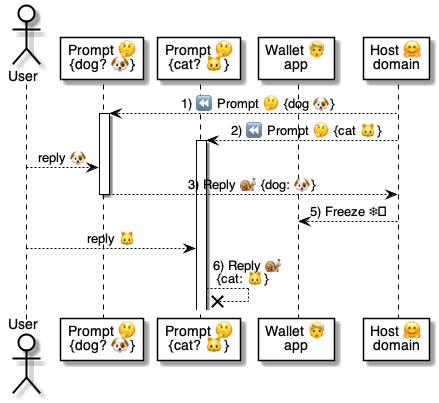
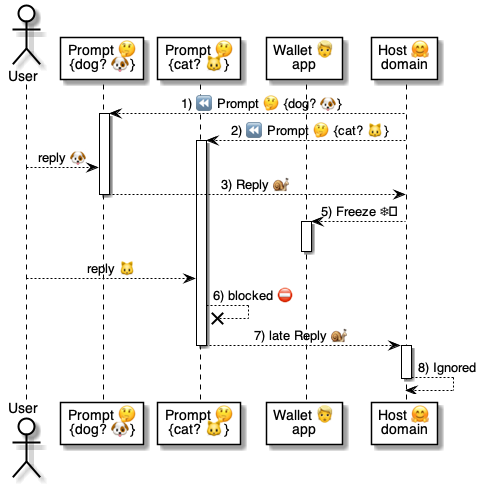
.

diff --git a/4 ⚙ Solution/20 🧑🦰 UI/31 🤔 Prompts/04 🤔✨ with Options.md b/4 ⚙ Solution/20 🧑🦰 UI/31 🤔 Prompts/04 🤔✨ with Options.md
@@ -17,15 +17,29 @@
 
 1. **Can prompt options be deferred?**
        
-    Yes, [prompt options](<04 🤔✨ with Options.md>) can be differed with [non-blocking status Prompts 🤔](<08 🤔✨ with Status behavior.md>).
+    Yes. 
     
-    * [Host 🤗 domains](<../12 💬 Chats/04 🤗🎭 Host role.md>) can speed-up [Chats 💬](<../12 💬 Chats/01 💬 Chat.md>) by taking unilateral two-way-door decisions that can be reverted by users even after other [Prompts 🤔](<01 🤔 Prompt.md>) have been sent.
-
-    * For example, [Host 🤗 domains](<../12 💬 Chats/04 🤗🎭 Host role.md>) may assign default values to options to speed up the process (e.g., [navigation options 🤝](<../../../3 🤝 Use Cases/03 🧳 Travel/01 🧳 Plans trips 🧭/02 🧭 Return @ Destination.md>)), while still allowing users to go back and change those default options.
-
-    * [Hosts 🤗](<../12 💬 Chats/04 🤗🎭 Host role.md>) enable it with [non-blocking Prompts 🤔](<08 🤔✨ with Status behavior.md>) - e.g., [`INFO`](<11 ℹ INFO prompt.md>), [`TEMP`](<12 ⏳ TEMP prompt.md>), [`SUCCESS`](<13 ✅ SUCCESS prompt.md>), and [`FAILURE`](<14 ❌ FAILURE prompt.md>).
+    * [Prompt options](<04 🤔✨ with Options.md>) can be differed with [non-blocking status Prompts 🤔](<08 🤔✨ with Status behavior.md>);
     
-    * [Hosts 🤗](<../12 💬 Chats/04 🤗🎭 Host role.md>) disabled it with a [Freeze ❄](<../../../5 ⏩ Flows/50 🤗⏩ Hosts/06 🤗⏩🧑🦰 Freeze ❄.md>) flow.
+        * e.g., [`INFO`](<11 ℹ INFO prompt.md>), [`TEMP`](<12 ⏳ TEMP prompt.md>), [`SUCCESS`](<13 ✅ SUCCESS prompt.md>), and [`FAILURE`](<14 ❌ FAILURE prompt.md>).
+  
+        * [Host 🤗 domains](<../12 💬 Chats/04 🤗🎭 Host role.md>) speed-up [Chats 💬](<../12 💬 Chats/01 💬 Chat.md>) by taking unilateral two-way-door decisions that can be reverted by users even after other [Prompts 🤔](<01 🤔 Prompt.md>) have been sent.
+
+        * For example, [Host 🤗 domains](<../12 💬 Chats/04 🤗🎭 Host role.md>) may assign default values to options to speed up the process (e.g., [navigation options 🤝](<../../../3 🤝 Use Cases/03 🧳 Travel/01 🧳 Plans trips 🧭/02 🧭 Return @ Destination.md>)), while still allowing users to go back and change those default options.
+
+    
+    --- 
+    <br/>
+
+1. **Do all prompt options behave the same way?**
+
+    No. 
+    * [`Options`](<04 🤔✨ with Options.md>) with a `§` sign 
+        * open a new [Chat 💬](<../12 💬 Chats/01 💬 Chat.md>)
+        * even after a [Freeze ❄](<../../../5 ⏩ Flows/50 🤗⏩ Hosts/06 🤗⏩🧑🦰 Freeze ❄.md>) command.
+    * All others [`Options`](<04 🤔✨ with Options.md>)
+        * continue the [Chat 💬](<../12 💬 Chats/01 💬 Chat.md>)
+        * and are disabled with a [Freeze ❄](<../../../5 ⏩ Flows/50 🤗⏩ Hosts/06 🤗⏩🧑🦰 Freeze ❄.md>) command.
     
     ---
     <br/>
@@ -50,19 +64,48 @@
     ```yaml
     # One-line
     <PROMPT>|<message>|<options> >> $selected
+    ```
 
+    | Argument| Purpose | Example
+    |-|-|-
+    | `<PROMPT>` | A [Prompt 🤔](<01 🤔 Prompt.md>) format. | [`INFO`](<11 ℹ INFO prompt.md>) [`TEMP`](<12 ⏳ TEMP prompt.md>)
+    | `<message>` |  Message to show to the user. | `Hi!`
+    | `<options>` | Comma-separated strings | `A,B,C`
+    || or comma-separated dictionary. | `1:A,2:B`
+    | `$selected` | Placeholder for the selected option: | `$answer`
+    || for string lists, returns the text | → `A` in `A,B,C`
+    || for dictionaries, returns the ID. | → `1` in `{1:A}`
+    
+    ```yaml
     # Multi-line with a single options string
     <PROMPT> >> $selected:
         Message: <message>
         Options: <options>
+    ```
 
+    | Argument| Purpose | Example
+    |-|-|-
+    | `<message>` | Also allows interpolated strings. | `Hi {$name}!`
+    | `<options>` | Also allows string array functions |`{f}` → `[A,B]`
+    |           | and object functions. | `{f}` → `{1:A}`
+    
+    ```yaml
     # Multi-line with multiple strings
     <PROMPT> >> $selected:
         Message: <message>
         Options:
-            - <string-1>
+            - <option-1>
             - <option-n>
+    ```
 
+    | Argument| Purpose | Example
+    |-|-|-
+    | `<option-n>` | Also allows option interpolation |`- Item {$id}`
+    || and uses `[]` to highlight words | `[Close] chat`
+    || and uses `§` for [Locators 🔆](<../11 🔆 Locators/01 🔆 Locator.md>). | `Open § {$url}`
+
+
+    ```yaml
     # Multi-line with a dictionary
     <PROMPT> >> $selected:
         Message: <message>
@@ -73,12 +116,7 @@
 
     | Argument| Purpose | Example
     |-|-|-
-    | `<PROMPT>` | A [Prompt 🤔](<01 🤔 Prompt.md>) format. | `INFO` `TEMP`
-    | `<message>` |  Message to show to the user. | `Hi!`
-    | `<options>` | Optional comma-separated options. | `A,B,C`
-    | `<option-n>` | Option text in lists and dictionaries. | `Bla`
-    | `<id-n>` | Optional ID in an option dictionary. | `#1`
-    | `$selected` | Placeholder for the selected option: <br> - for text lists, returns the text; <br/>- for dictionaries, returns the ID. | `$answer`
+    | `<id-n>` | Also allows interpolated objects. | `- A: Item {$id}`
     
     
     ---
@@ -90,22 +128,69 @@
 
     | [Domain](<../../40 👥 Domains/44 📜 Manifests/00 👥 Domain.md>) | [Prompt](<01 🤔 Prompt.md>) | [User](<../01 🧑🦰 Wallets/01 🧑🦰 Wallet app.md>)
     | - | - | - |
-    | [🤗 Host](<../12 💬 Chats/04 🤗🎭 Host role.md>) | ℹ With options:<br/>- [ Cancel ] later <br>- [ Play ] music | > Cancel
+    | [🤗 Host](<../12 💬 Chats/04 🤗🎭 Host role.md>) | 😃 What to do? <br>- [ Play ] music <br/>- [ Share ] list | > Play
+    | [🤗 Host](<../12 💬 Chats/04 🤗🎭 Host role.md>) | ℹ You opted to play.
+    |  
 
     The related [Talker 😃](<../33 😃 Talkers/01 😃 Talker.md>) is as follows.
 
     ```yaml
     # 😃 Talker
-    INFO|With options >> $answer:
-        Options:
-            - [Cancel] later
-            - [Play] music 
-    ```
 
+    # Ask the question.
+    ONE|What to do? >> $answer:
+        Options:
+            - [Play] music 
+            - [Share] list
+
+    # Check the answer.
+    CASE|$answer:
+        Play : INFO|You opted to play.
+        Share: INFO|You choose to share.
+    ```
 
     ---
     <br/>
 
+
+
+1. **What's a Locator example in a [Chat 💬](<../12 💬 Chats/01 💬 Chat.md>)?**
+
+    | [Domain](<../../40 👥 Domains/44 📜 Manifests/00 👥 Domain.md>) | [Prompt](<01 🤔 Prompt.md>) | [User](<../01 🧑🦰 Wallets/01 🧑🦰 Wallet app.md>)
+    | - | - | - |
+    | [🤗 Host](<../12 💬 Chats/04 🤗🎭 Host role.md>) | 😃 What to do?<br>- [ Play ] music <br/>- [ Share ] list <br/> - [ Speak ] with singer 🔆 | > Speak
+    | [🤗 Host](<../12 💬 Chats/04 🤗🎭 Host role.md>) | ✅ Over to 👨🎤 Any Singer.
+    | [ new chat ]
+    | 🔎 [Finder](<../../../../4 ⚙ Solution/30 🫥 Agents/10 🔎 Finders/02 🔎🫥 Finder vault.md>) | ⓘ Any Singer (4.4 ⭐) [+]
+    | 👨🎤 Singer   | ℹ Received fan request.
+    | 👨🎤 Singer  | 😃 Hi! What do you need?
+    |
+
+    The related [Talker 😃](<../33 😃 Talkers/01 😃 Talker.md>) is as follows.
+
+    ```yaml
+    # 😃 Talker
+
+    # Ask the question.
+    ONE|What to do? >> $answer:
+        Options:
+            - [Play] music 
+            - [Share] list
+            - [Speak] with singer § any-artist.com/FANS
+
+    # Check the answer.
+    CASE|$answer:
+        Play : INFO|You opted to play.
+        Share: INFO|You choose to share.
+        # [Speak] never gets here.
+    ```
+
+    The option with `§` 
+    * opens a new [Chat 💬](<../12 💬 Chats/01 💬 Chat.md>)
+    * using the [Locator 🔆](<../11 🔆 Locators/01 🔆 Locator.md>) `any-artist.com/FANS`
+
+    ---
+    <br/>
 
 1. **What's the response in the [`Prompted@Host`](<../../../6 🅰 APIs/50 🤗🅰 Host/04 🧑🦰🚀🤗 Prompted.md>) method?**
 

diff --git a/4 ⚙ Solution/20 🧑🦰 UI/31 🤔 Prompts/01 🤔 Prompt.md b/4 ⚙ Solution/20 🧑🦰 UI/31 🤔 Prompts/01 🤔 Prompt.md
@@ -64,9 +64,11 @@
         * then go back to B and change the history to A, B, X, Y, Z;
         * as long as there was no [Freeze ❄](<../../../5 ⏩ Flows/50 🤗⏩ Hosts/06 🤗⏩🧑🦰 Freeze ❄.md>) between B and E.
     
-    * However, [Host 🤗 domains](<../12 💬 Chats/04 🤗🎭 Host role.md>) can [Freeze ❄](<../../../5 ⏩ Flows/50 🤗⏩ Hosts/06 🤗⏩🧑🦰 Freeze ❄.md>) a [Chat 💬](<../12 💬 Chats/01 💬 Chat.md>) until a certain checkpoint;
-        * This blocks the user from changing any [Prompts 🤔](<01 🤔 Prompt.md>) before that point.
-        * The objective is typically to commit a transaction to a database with the inputs collected up to that point.
+    * However, [Host 🤗 domains](<../12 💬 Chats/04 🤗🎭 Host role.md>) can [Freeze ❄](<../../../5 ⏩ Flows/50 🤗⏩ Hosts/06 🤗⏩🧑🦰 Freeze ❄.md>) a [Chat 💬](<../12 💬 Chats/01 💬 Chat.md>) until a certain checkpoint.
+        * This blocks the user from changing any [Prompts 🤔](<01 🤔 Prompt.md>) up to that point.
+        * [Hosts 🤗](<../12 💬 Chats/04 🤗🎭 Host role.md>) to this when committing a transaction to a database with the inputs collected.
+  
+    * ⚠ Note: [`Options`](<04 🤔✨ with Options.md>) with a `§` open a new [Chat 💬](<../12 💬 Chats/01 💬 Chat.md>)  and are never frozen.
 
     ---
     <br/>
@@ -78,7 +80,7 @@
     |-|-
     | [`Details`](<03 🤔✨ with Details.md>) | Has expandable [+] details.
     | [`Options`](<04 🤔✨ with Options.md>) | Has options for users to select.
-    | [`Attachment`](<05 🤔✨ with Attachments.md>) | Has a PDF, PNG, or JPEG attachment.
+    | [`Attachment 📎`](<05 🤔📎 with Attachments.md>) | Has a PDF, PNG, or JPEG attachment.
     | [`Status` behavior](<08 🤔✨ with Status behavior.md>) | Informs and continues the flow.
     | [`Input` behavior](<09 🤔✨ with Input behavior.md>) | Waits for an answer from users.
     

diff --git a/4 ⚙ Solution/20 🧑🦰 UI/31 🤔 Prompts/08 🤔✨ with Status behavior.md b/4 ⚙ Solution/20 🧑🦰 UI/31 🤔 Prompts/08 🤔✨ with Status behavior.md
@@ -48,6 +48,14 @@
     Non-blocking status prompts support [`Options`](<04 🤔✨ with Options.md>).
     - If it contains [`Options`](<04 🤔✨ with Options.md>), then the user may click an option any time before or after the [Host 🤗 domain](<../12 💬 Chats/04 🤗🎭 Host role.md>) sends other subsequent [Prompts 🤔](<01 🤔 Prompt.md>).
     - See a full example at [Driver pick-up on pizza delivery 🛵](<../../../3 🤝 Use Cases/02 🍲 Eat & Drink/70 🍕 Order pizza/82 🛵 Driver: Pick-up.md>).
+    
+    These options are not disabled with a [Freeze ❄](<../../../5 ⏩ Flows/50 🤗⏩ Hosts/06 🤗⏩🧑🦰 Freeze ❄.md>) flow, and will continue to work.
+    - This allows users to continue to retrieve outputs from previous transactions, like the details of a payment.
+    - Thus, [Host 🤗 domain](<../12 💬 Chats/04 🤗🎭 Host role.md>) should validate their replies with optimistic concurrency when necessary.
+
+    Also, these non-blocking [`Options`](<04 🤔✨ with Options.md>) don't return from their [Procedure ⚙](<../33 😃 Talkers/11 ⚙ Procedure.md>) in a [Talker 😃](<../33 😃 Talkers/01 😃 Talker.md>).
+    * This is because they have an independent workflow.
+    * And because their parent workflow might have already ended.
 
     ---
     <br/>

diff --git a/4 ⚙ Solution/20 🧑🦰 UI/33 😃 Talkers/42 ❄ FREEZE msg.md b/4 ⚙ Solution/20 🧑🦰 UI/33 😃 Talkers/42 ❄ FREEZE msg.md
@@ -2,7 +2,6 @@
 
 > Part of [Talker 😃](<01 😃 Talker.md>)
 
-> Related to [🤗⏩🧑🦰 Freeze ❄](<../../../5 ⏩ Flows/50 🤗⏩ Hosts/06 🤗⏩🧑🦰 Freeze ❄.md>) flow
 
 <br/>
 
@@ -11,7 +10,8 @@
 
     A `FREEZE` ❄
     * is a flow [Command ⌘](<10 ⌘ Command.md>) 
-    * that freezes all previous [non-blocking Prompts 🤔](<../31 🤔 Prompts/08 🤔✨ with Status behavior.md>).
+    * that freezes all previous [non-blocking Prompts 🤔](<../31 🤔 Prompts/08 🤔✨ with Status behavior.md>)
+    * as described in the [Freeze ⏩](<../../../5 ⏩ Flows/50 🤗⏩ Hosts/06 🤗⏩🧑🦰 Freeze ❄.md>) flow.
 
     ---
     <br/>

diff --git a/4 ⚙ Solution/20 🧑🦰 UI/31 🤔 Prompts/11 ℹ INFO prompt.md b/4 ⚙ Solution/20 🧑🦰 UI/31 🤔 Prompts/11 ℹ INFO prompt.md
@@ -19,7 +19,7 @@
     |-|-
     | [`Details`](<03 🤔✨ with Details.md>) | Has expandable [+] details.
     | [`Options`](<04 🤔✨ with Options.md>) | Has options for users to select.
-    | [`Attachment`](<05 🤔✨ with Attachments.md>) | Has a PDF, PNG, or JPEG attachment.
+    | [`Attachment`](<05 🤔📎 with Attachments.md>) | Has a PDF, PNG, or JPEG attachment.
     | [`Status` behavior](<08 🤔✨ with Status behavior.md>) | Informs and continues the flow.
     
     ---

diff --git a/4 ⚙ Solution/20 🧑🦰 UI/31 🤔 Prompts/13 ✅ SUCCESS prompt.md b/4 ⚙ Solution/20 🧑🦰 UI/31 🤔 Prompts/13 ✅ SUCCESS prompt.md
@@ -22,7 +22,7 @@
     |-|-
     | [`Details`](<03 🤔✨ with Details.md>) | Has expandable [+] details.
     | [`Options`](<04 🤔✨ with Options.md>) | Has options for users to select.
-    | [`Attachment`](<05 🤔✨ with Attachments.md>) | Has a PDF, PNG, or JPEG attachment.
+    | [`Attachment`](<05 🤔📎 with Attachments.md>) | Has a PDF, PNG, or JPEG attachment.
     | [`Status` behavior](<08 🤔✨ with Status behavior.md>) | Informs and continues the flow.
     
     ---

diff --git a/4 ⚙ Solution/20 🧑🦰 UI/31 🤔 Prompts/14 ❌ FAILURE prompt.md b/4 ⚙ Solution/20 🧑🦰 UI/31 🤔 Prompts/14 ❌ FAILURE prompt.md
@@ -21,7 +21,7 @@
     |-|-
     | [`Details`](<03 🤔✨ with Details.md>) | Has expandable [+] details.
     | [`Options`](<04 🤔✨ with Options.md>) | Has options for users to select.
-    | [`Attachment`](<05 🤔✨ with Attachments.md>) | Has a PDF, PNG, or JPEG attachment.
+    | [`Attachment`](<05 🤔📎 with Attachments.md>) | Has a PDF, PNG, or JPEG attachment.
     | [`Status` behavior](<08 🤔✨ with Status behavior.md>) | Informs and continues the flow.
     
     ---

diff --git a/4 ⚙ Solution/20 🧑🦰 UI/31 🤔 Prompts/20 🔠 TEXT prompt.md b/4 ⚙ Solution/20 🧑🦰 UI/31 🤔 Prompts/20 🔠 TEXT prompt.md
@@ -26,7 +26,7 @@
     |-|-
     | [`Details`](<03 🤔✨ with Details.md>) | Has expandable [+] details.
     | [`Options`](<04 🤔✨ with Options.md>) | Has options for users to select.
-    | [`Attachment`](<05 🤔✨ with Attachments.md>) | Has a PDF, PNG, or JPEG attachment.
+    | [`Attachment`](<05 🤔📎 with Attachments.md>) | Has a PDF, PNG, or JPEG attachment.
     | [`Input` behavior](<09 🤔✨ with Input behavior.md>) | Waits for an answer from users.
     
     ---

diff --git a/4 ⚙ Solution/20 🧑🦰 UI/31 🤔 Prompts/21 🔄 QUANTITY prompt.md b/4 ⚙ Solution/20 🧑🦰 UI/31 🤔 Prompts/21 🔄 QUANTITY prompt.md
@@ -21,7 +21,7 @@
     | Feature | Details
     |-|-
     | [`Details`](<03 🤔✨ with Details.md>) | Has expandable [+] details.
-    | [`Attachment`](<05 🤔✨ with Attachments.md>) | Has a PDF, PNG, or JPEG attachment.
+    | [`Attachment`](<05 🤔📎 with Attachments.md>) | Has a PDF, PNG, or JPEG attachment.
     | [`Input` behavior](<09 🤔✨ with Input behavior.md>) | Waits for an answer from users.
     
     ---

diff --git a/4 ⚙ Solution/20 🧑🦰 UI/31 🤔 Prompts/21 🔢 INT prompt.md b/4 ⚙ Solution/20 🧑🦰 UI/31 🤔 Prompts/21 🔢 INT prompt.md
@@ -22,7 +22,7 @@
     | Feature | Details
     |-|-
     | [`Details`](<03 🤔✨ with Details.md>) | Has expandable [+] details.
-    | [`Attachment`](<05 🤔✨ with Attachments.md>) | Has a PDF, PNG, or JPEG attachment.
+    | [`Attachment`](<05 🤔📎 with Attachments.md>) | Has a PDF, PNG, or JPEG attachment.
     | [`Input` behavior](<09 🤔✨ with Input behavior.md>) | Waits for an answer from users.
     
     ---

diff --git a/4 ⚙ Solution/20 🧑🦰 UI/31 🤔 Prompts/22 💰 AMOUNT prompt.md b/4 ⚙ Solution/20 🧑🦰 UI/31 🤔 Prompts/22 💰 AMOUNT prompt.md
@@ -29,7 +29,7 @@
     | Feature | Details
     |-|-
     | [`Details`](<03 🤔✨ with Details.md>) | Has expandable [+] details.
-    | [`Attachment`](<05 🤔✨ with Attachments.md>) | Has a PDF, PNG, or JPEG attachment.
+    | [`Attachment`](<05 🤔📎 with Attachments.md>) | Has a PDF, PNG, or JPEG attachment.
     | [`Input` behavior](<09 🤔✨ with Input behavior.md>) | Waits for an answer from users.
     
     ---
